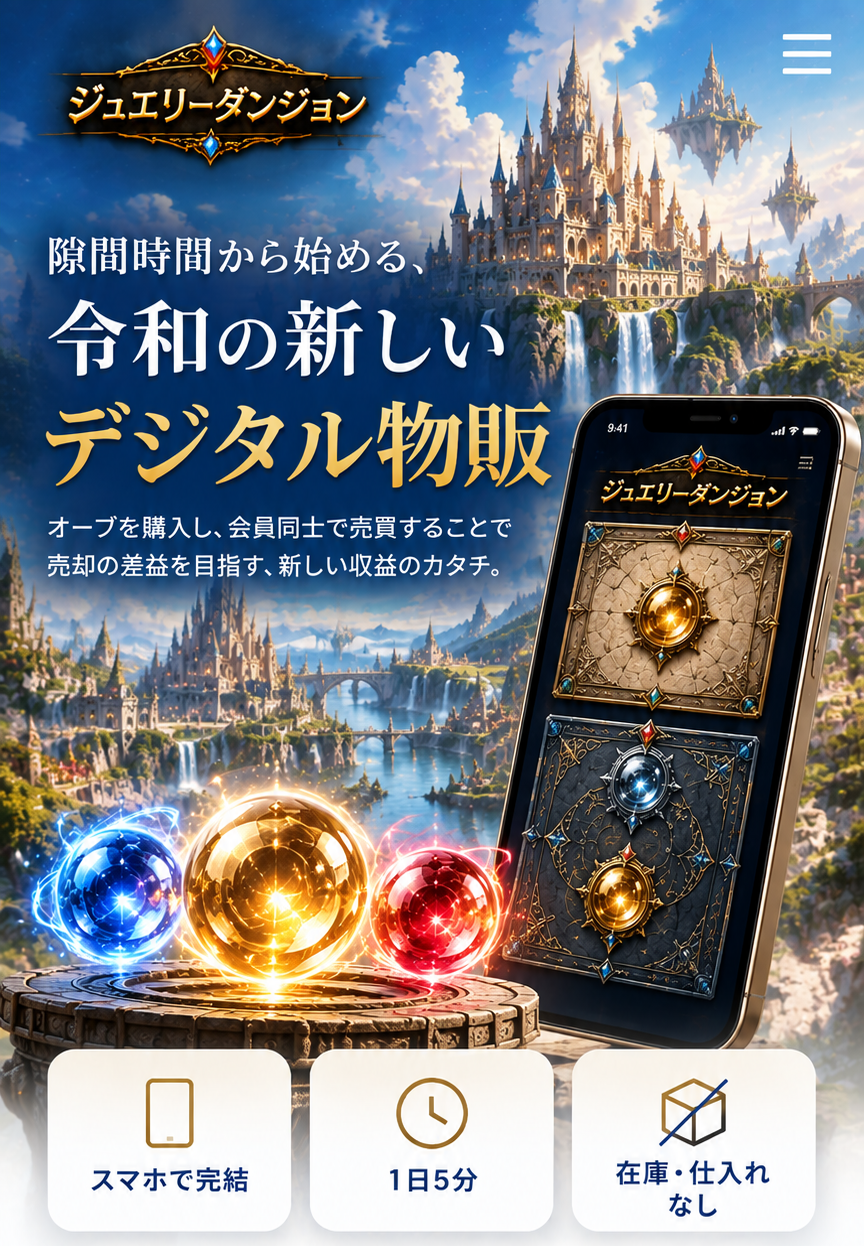
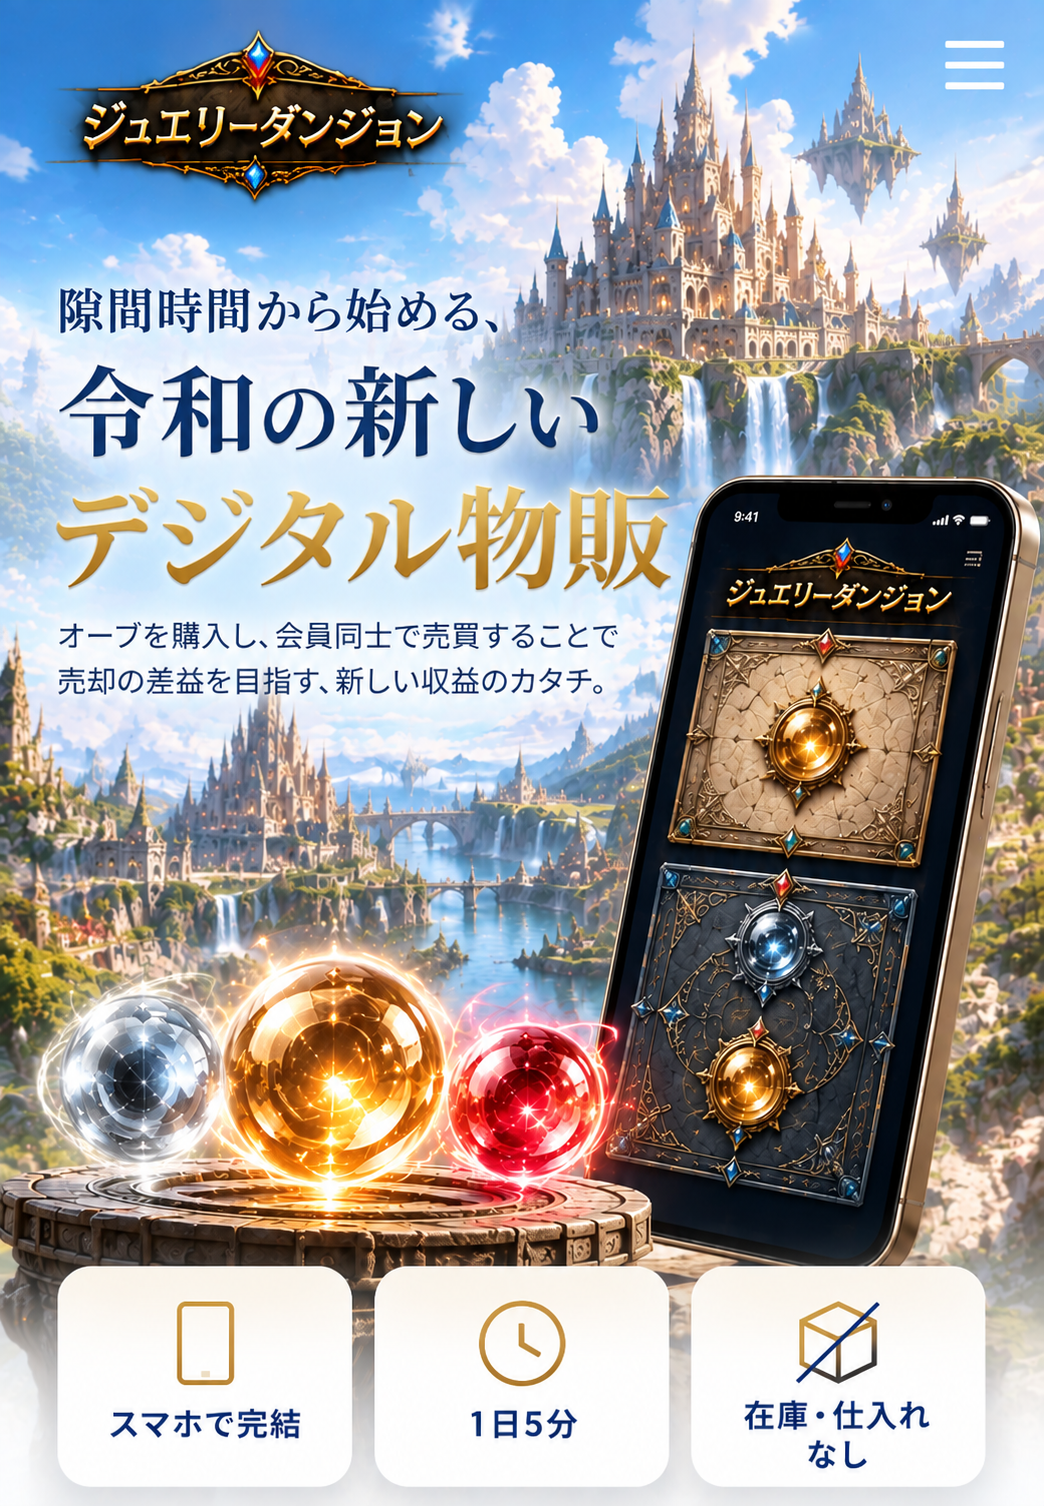
画像差し替え: FV画像とシルバーオーブを新しいものに更新
- assets/fv-mobile-top.png を新デザイン（1044x1506）に差し替え
- parts/orb-silver.png をクリスタル調の新画像に差し替え（白い余白を切り詰めて他のオーブとサイズを統一）

Claude-Session: https://claude.ai/code/session_01RRH2ZQCvBtZgqNaULtVPFi

diff --git a/src/components/sections/hero.tsx b/src/components/sections/hero.tsx
@@ -37,8 +37,8 @@ export function Hero() {
         <Image
           src={asset("/assets/fv-mobile-top.png")}
           alt="隙間時間から始める、令和の新しいデジタル物販。オーブを購入し、会員同士で売買することで売却の差益を目指す、新しい収益のカタチ。スマホで完結／1日5分／在庫・仕入れなし"
-          width={864}
-          height={1246}
+          width={1044}
+          height={1506}
           priority
           sizes="(min-width: 560px) 560px, 100vw"
           className={styles.visualImg}

diff --git a/src/lib/content.ts b/src/lib/content.ts
@@ -64,8 +64,8 @@ export const orbs: Orb[] = [
     key: "silver",
     nameJa: "シルバーオーブ",
     image: "/parts/orb-silver.png",
-    imageWidth: 626,
-    imageHeight: 602,
+    imageWidth: 619,
+    imageHeight: 620,
     specs: [
       { label: "販売価格", value: "55,000〜165,000円" },
       { label: "値上げ率", value: "15%" },
